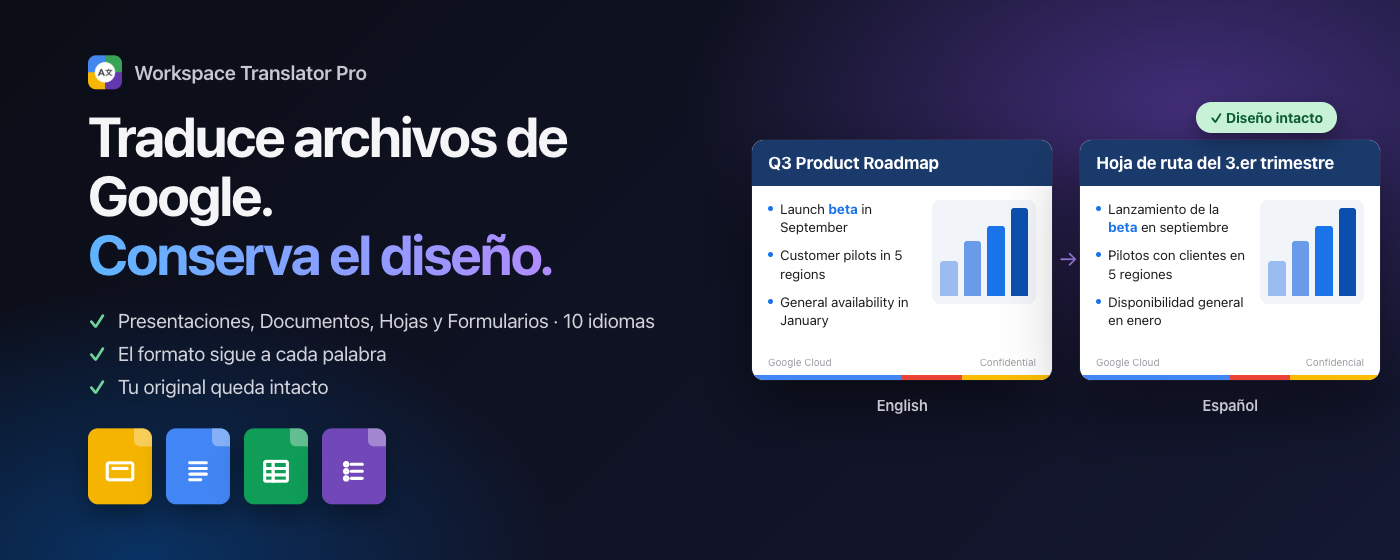
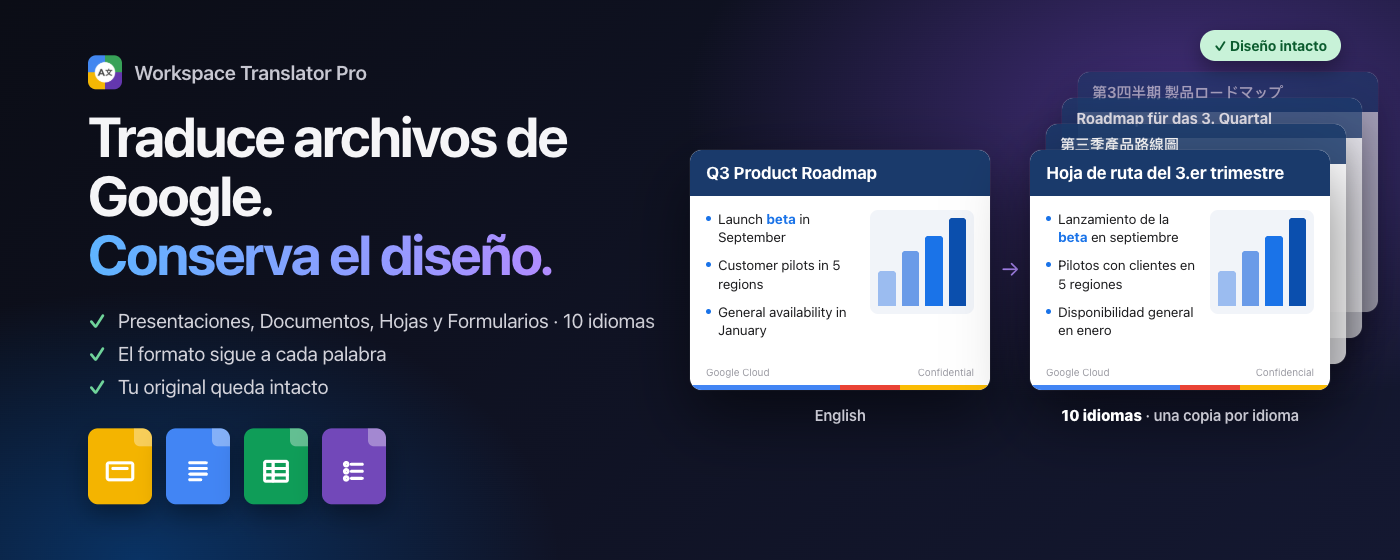
store: marquee shows one source slide becoming a stack of copies in several languages

Changed region(s): [[0.4914, 0.1518, 1.0, 0.7589], [0.86, 0.0304, 0.9829, 0.1214]]

diff --git a/store-assets/compose.html b/store-assets/compose.html
@@ -135,7 +135,7 @@
   /* Marquee: two mini slides with the same layout, different language */
   .ms { position: absolute; top: 140px; width: 300px; height: 240px; border-radius: 12px; background: #fff; color: #1d1d1f; overflow: hidden;
         box-shadow: 0 28px 64px rgba(0,0,0,.5), 0 0 0 1px rgba(255,255,255,.06); text-align: left; }
-  .ms.a { left: 752px; } .ms.b { left: 1080px; }
+  .ms.a { left: 690px; } .ms.b { left: 1030px; }
   .ms .hd { height: 46px; padding: 0 16px; display: flex; align-items: center; font-size: 17px; font-weight: 700; color: #fff; background: #1a3a6b; letter-spacing: -0.01em; }
   .ms .bd { display: grid; grid-template-columns: 1fr 104px; gap: 12px; padding: 14px 16px; }
   .mq .ms ul { list-style: none; margin: 0; display: flex; flex-direction: column; gap: 10px; font-size: 13.5px; line-height: 1.35; color: #1d1d1f; }
@@ -149,6 +149,12 @@
   .ms-lbl { position: absolute; top: 396px; width: 300px; text-align: center; font-size: 15px; font-weight: 600; color: #c7c7d1; }
   .ms-arrow { position: absolute; left: 1058px; top: 246px; width: 20px; text-align: center; font-size: 22px; color: #b18cff; }
   .kept { position: absolute; left: 1196px; top: 102px; padding: 7px 14px; border-radius: 980px; font-size: 14px; font-weight: 700; color: #0b5c2e; background: #c8f2d8; box-shadow: 0 8px 20px rgba(0,0,0,.35); }
+  /* Stack of translated copies behind the front one (one per language) */
+  .stack { position: absolute; width: 300px; height: 240px; border-radius: 12px; background: #fff; overflow: hidden;
+           box-shadow: 0 18px 40px rgba(0,0,0,.45), 0 0 0 1px rgba(255,255,255,.06); }
+  .stack .hd { height: 40px; padding: 0 14px; display: flex; align-items: center; font-size: 15px; font-weight: 700; color: #fff; background: #1a3a6b; }
+  .multi { position: absolute; top: 406px; left: 1010px; width: 340px; text-align: center; font-size: 15px; font-weight: 600; color: #c7c7d1; }
+  .multi b { color: #fff; }
 </style>
 </head>
 <body>
@@ -161,19 +167,19 @@ const mini = (cls, d) => `<div class="ms ${cls}"><div class="hd">${d.title}</div
   <div class="ft"><span>Google Cloud</span><span>${d.conf}</span></div><div class="strip"></div></div>`;
 const SRC = { title: 'Q3 Product Roadmap', items: ['Launch <em>beta</em> in September', 'Customer pilots in 5 regions', 'General availability in January'], conf: 'Confidential' };
 const T = {
-  en: { html: 'en', h1: 'Translate Google files.', h2: 'Keep the layout.', kept: 'Layout kept',
+  en: { back: ['Hoja de ruta del 3.er trimestre', 'Roadmap für das 3. Quartal', '第三季產品路線圖'], multi: '<b>10 languages</b> · one copy each', html: 'en', h1: 'Translate Google files.', h2: 'Keep the layout.', kept: 'Layout kept',
         pts: ['Slides, Docs, Sheets &amp; Forms · 10 languages', 'Formatting follows every word', 'Your original stays untouched'],
         types: ['Slides', 'Docs', 'Sheets', 'Forms'], tile: 'AI translation · 10 languages · layout kept',
         slide: { name: '日本語', title: '第3四半期 製品ロードマップ', items: ['9月に<em>ベータ版</em>を公開', '5 地域で顧客パイロット', '1月に一般提供を開始'], conf: '社外秘' } },
-  'zh-TW': { html: 'zh-Hant', h1: '翻譯 Google 檔案，', h2: '版面完全不跑。', kept: '版面保留',
+  'zh-TW': { back: ['第3四半期 製品ロードマップ', 'Hoja de ruta del 3.er trimestre', 'Roadmap für das 3. Quartal'], multi: '<b>10 種語言</b> · 每種各一份副本', html: 'zh-Hant', h1: '翻譯 Google 檔案，', h2: '版面完全不跑。', kept: '版面保留',
         pts: ['簡報、文件、試算表、表單 · 10 種語言', '格式跟著每個字走', '原始檔案絕不修改'],
         types: ['簡報', '文件', '試算表', '表單'], tile: 'AI 翻譯 · 10 種語言 · 版面不跑',
         slide: { name: '繁體中文', title: '第三季產品路線圖', items: ['9 月推出 <em>Beta 版</em>', '在 5 個地區進行客戶試行', '1 月正式上市'], conf: '機密' } },
-  ja: { html: 'ja', h1: 'Google ファイルを翻訳。', h2: 'レイアウトはそのまま。', kept: 'レイアウト保持',
+  ja: { back: ['第三季產品路線圖', 'Hoja de ruta del 3.er trimestre', 'Roadmap für das 3. Quartal'], multi: '<b>10 言語</b> · 言語ごとにコピーを作成', html: 'ja', h1: 'Google ファイルを翻訳。', h2: 'レイアウトはそのまま。', kept: 'レイアウト保持',
         pts: ['スライド・ドキュメント・スプレッドシート・フォーム · 10 言語', '書式は訳文についていく', '元のファイルは変更しません'],
         types: ['スライド', 'ドキュメント', 'シート', 'フォーム'], tile: 'AI 翻訳 · 10 言語 · レイアウト保持',
         slide: { name: '日本語', title: '第3四半期 製品ロードマップ', items: ['9月に<em>ベータ版</em>を公開', '5 地域で顧客パイロット', '1月に一般提供を開始'], conf: '社外秘' } },
-  es: { html: 'es', h1: 'Traduce archivos de Google.', h2: 'Conserva el diseño.', kept: 'Diseño intacto',
+  es: { back: ['第3四半期 製品ロードマップ', 'Roadmap für das 3. Quartal', '第三季產品路線圖'], multi: '<b>10 idiomas</b> · una copia por idioma', html: 'es', h1: 'Traduce archivos de Google.', h2: 'Conserva el diseño.', kept: 'Diseño intacto',
         pts: ['Presentaciones, Documentos, Hojas y Formularios · 10 idiomas', 'El formato sigue a cada palabra', 'Tu original queda intacto'],
         types: ['Slides', 'Docs', 'Sheets', 'Forms'], tile: 'Traducción con IA · 10 idiomas · diseño intacto',
         slide: { name: 'Español', title: 'Hoja de ruta del 3.er trimestre', items: ['Lanzamiento de la <em>beta</em> en septiembre', 'Pilotos con clientes en 5 regiones', 'Disponibilidad general en enero'], conf: 'Confidencial' } },
@@ -228,9 +234,12 @@ const shots = {
           <div class="ftype" style="background:#0f9d58"><svg viewBox="0 0 24 24"><rect x="4" y="5" width="16" height="14" rx="1"/><path d="M4 10h16M4 14.5h16M10 5v14"/></svg></div>
           <div class="ftype" style="background:#7248b9"><svg viewBox="0 0 24 24"><circle cx="6.5" cy="7" r="1.2"/><circle cx="6.5" cy="12" r="1.2"/><circle cx="6.5" cy="17" r="1.2"/><path d="M10 7h8M10 12h8M10 17h8"/></svg></div>
         </div></div>
-      ${mini('a', SRC)}<div class="ms-arrow">→</div>${mini('b', L.slide)}
-      <div class="ms-lbl" style="left:752px">English</div><div class="ms-lbl" style="left:1080px">${L.slide.name}</div>
-      <div class="kept">✓ ${L.kept}</div></div>`; })(),
+      ${mini('a', SRC).replace('class="ms a"', 'class="ms a" style="top:150px"')}<div class="ms-arrow" style="top:256px; left:1000px">→</div>
+      ${L.back.map((t, i) => `<div class="stack" style="left:${1030 + (3 - i) * 16}px; top:${150 - (3 - i) * 26}px; opacity:${0.55 + i * 0.15}"><div class="hd">${t}</div></div>`).join('')}
+      ${mini('b', L.slide).replace('class="ms b"', 'class="ms b" style="top:150px"')}
+      <div class="ms-lbl" style="left:690px; top:406px">English</div>
+      <div class="multi">${L.multi}</div>
+      <div class="kept" style="left:1200px; top:30px">✓ ${L.kept}</div></div>`; })(),
   tile: (() => { const L = T[lang] || T.en; return `<div class="tl dark" lang="${L.html}"><img src="../icons/icon128.png" alt=""><h1>Workspace Translator Pro</h1>
         <div class="types">${L.types.map((t, i) => `<span style="background:${['#f4b400', '#4285f4', '#0f9d58', '#7248b9'][i]}">${t}</span>`).join('')}</div>
         <p>${L.tile}</p></div>`; })(),
